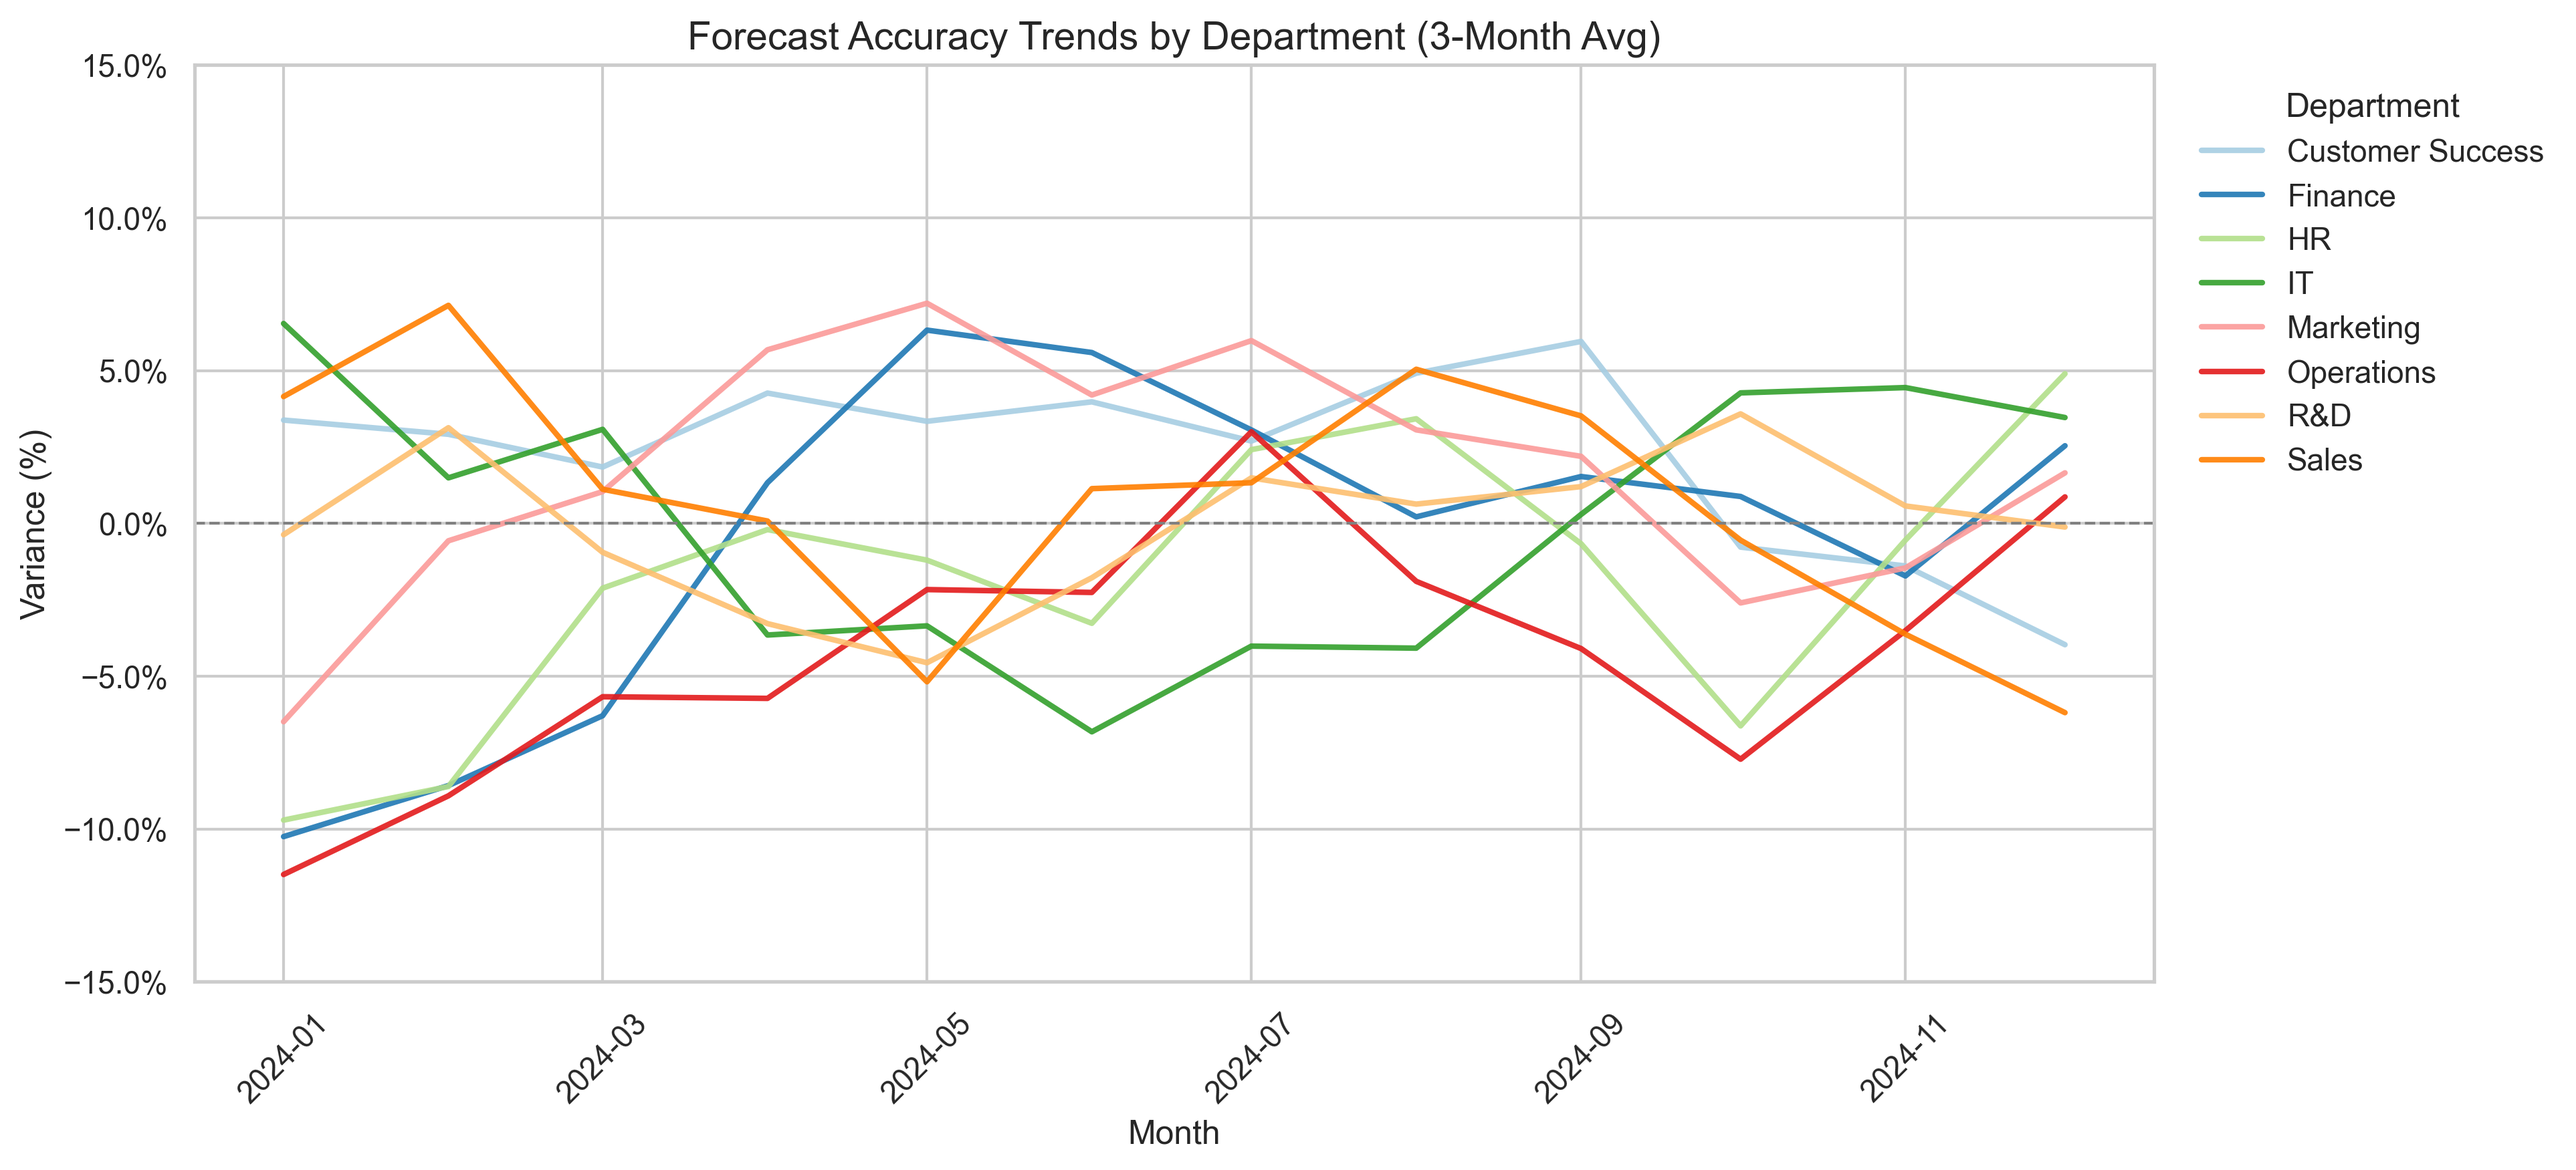
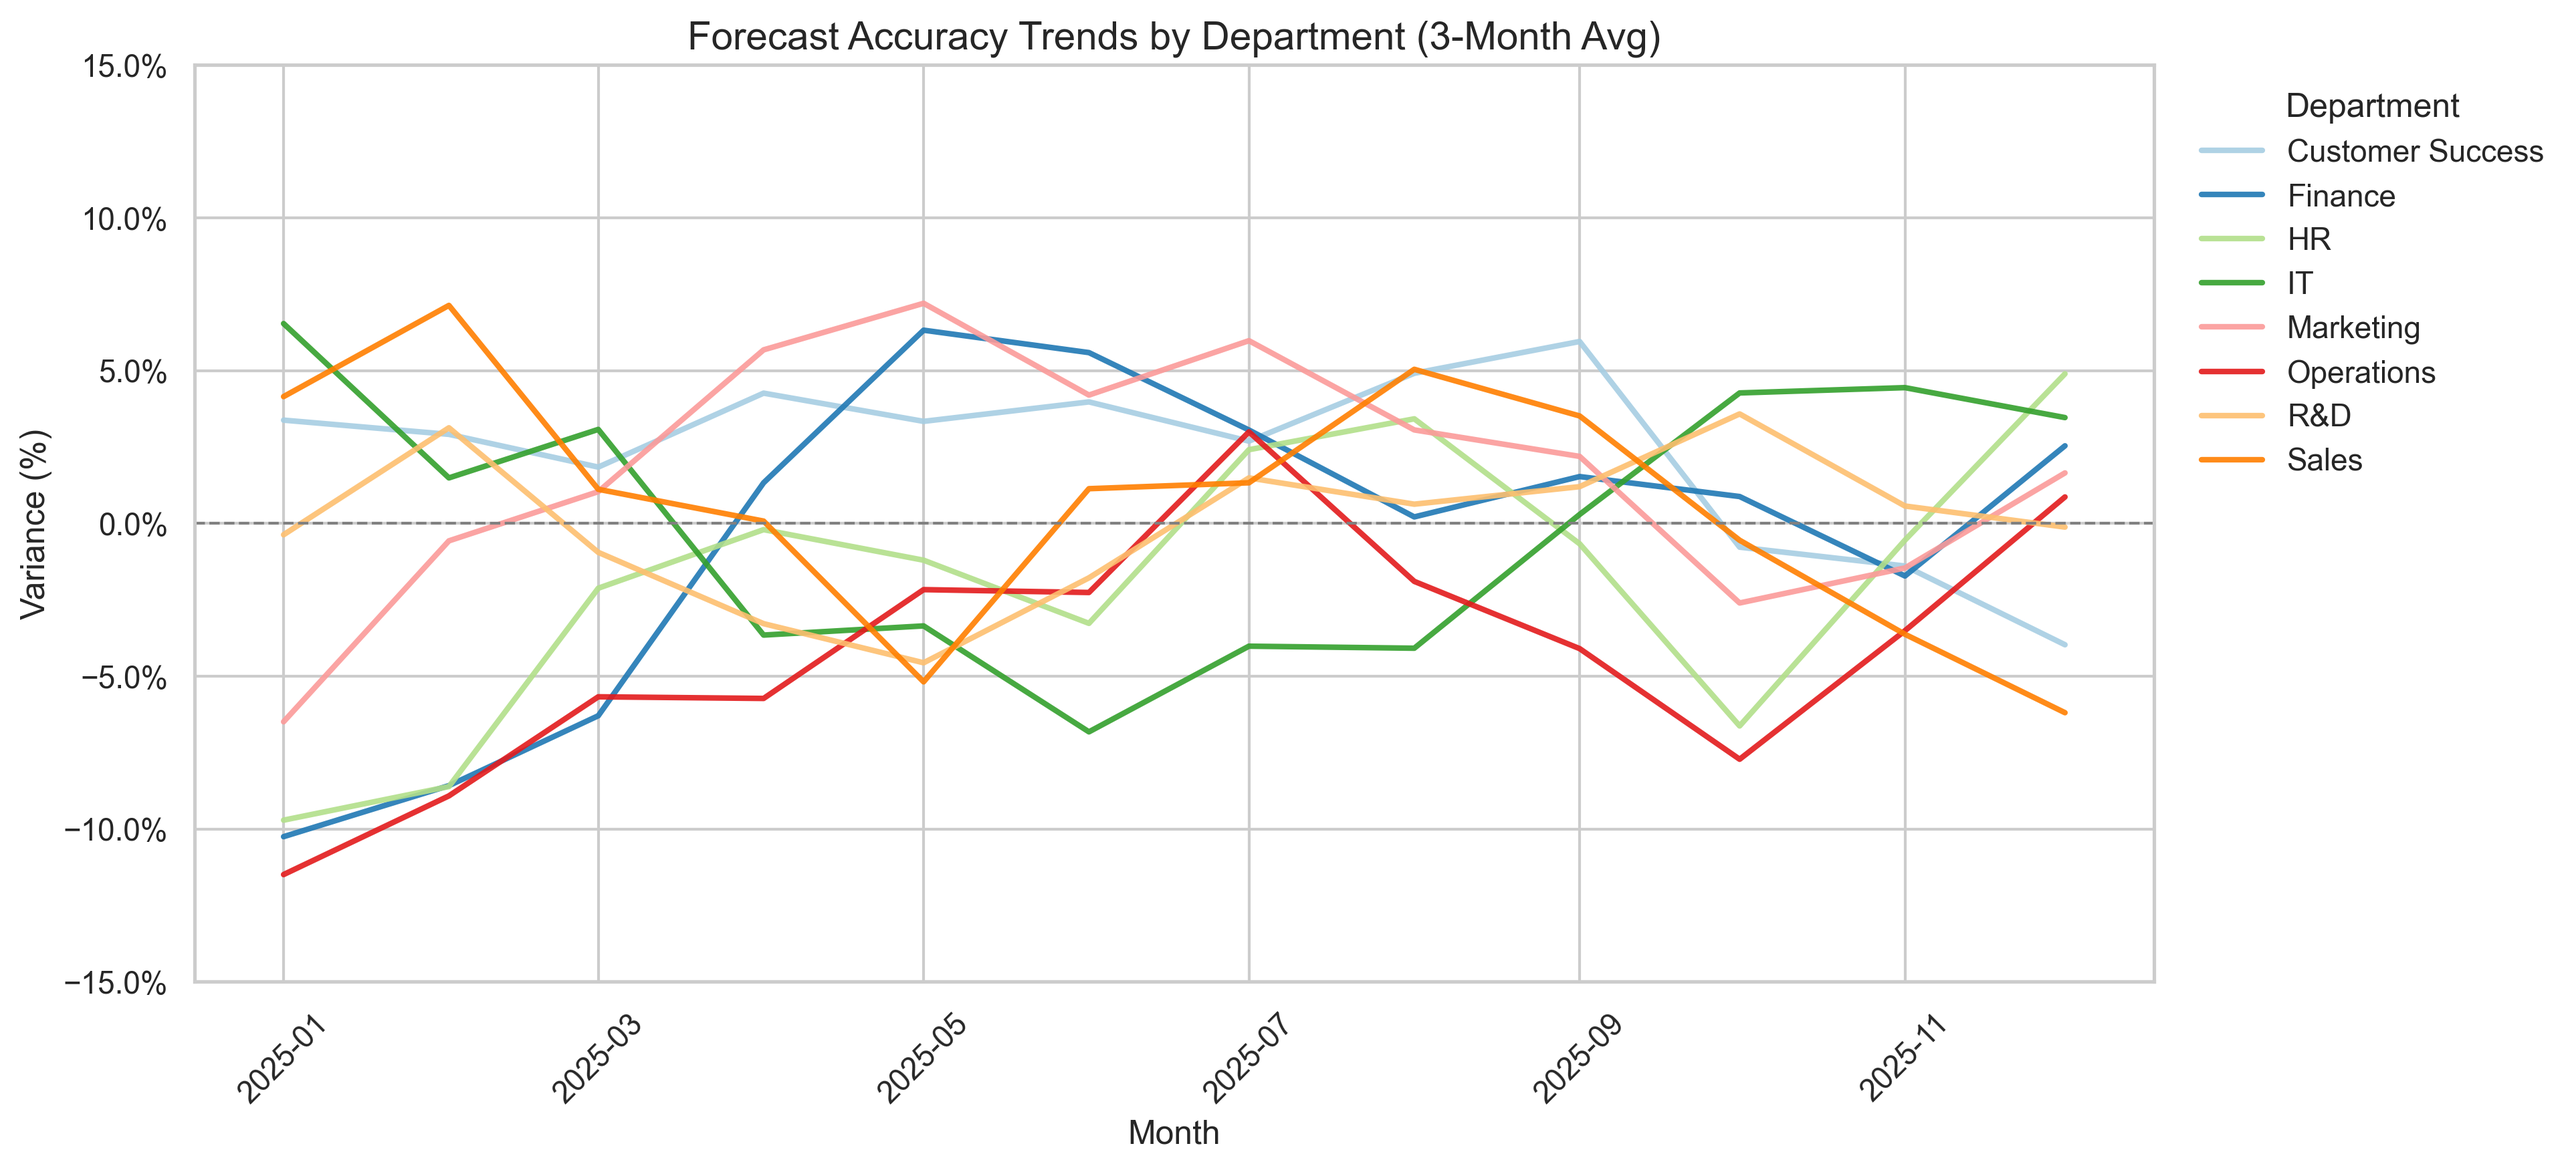
Update plots, executive summary, and dataset with corrected Month formatting

diff --git a/revenue_forecast_model.py b/revenue_forecast_model.py
@@ -16,7 +16,7 @@ import matplotlib.ticker as ticker
 df = pd.read_csv("revenue_forecasting_dataset.csv")
 
 # Convert Month to datetime and numeric for sorting
-df['Month_dt'] = pd.to_datetime(df['Month'], format='%b-%y')
+df['Month_dt'] = pd.to_datetime(df['Month'])  # Let pandas infer format
 df['Month_Num'] = df['Month_dt'].dt.month
 df.sort_values(by=['Department', 'Month_dt'], inplace=True)
 
